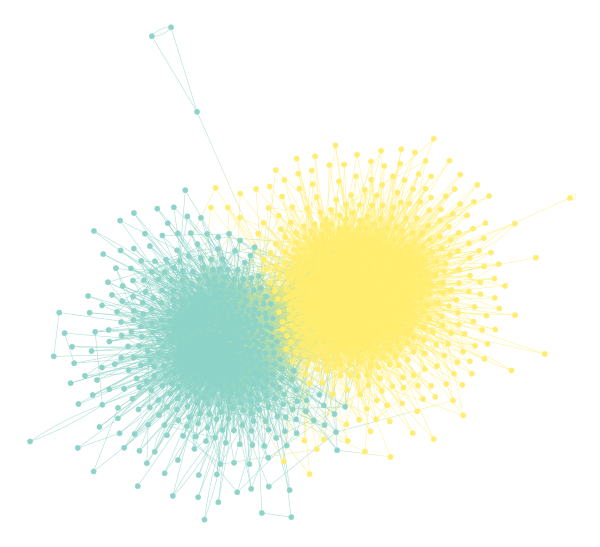
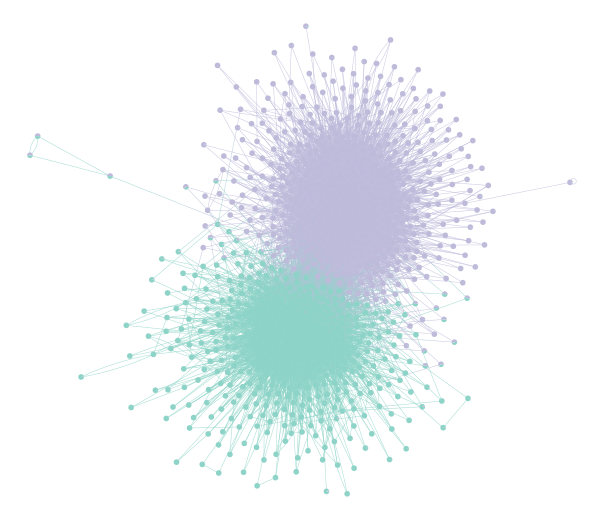
Change plotting function and generalise graph init

diff --git a/code/model/graph_mcmc.py b/code/model/graph_mcmc.py
@@ -15,7 +15,19 @@ output_dir = os.path.join(curr_dir, "..", "output")
 
 class Graph_MCMC:
 
-    def __init__(self, edges):
+    def __init__(self):
+        """Initialises empty graph"""
+        self.G = GT_Graph(directed=False)
+        
+        # initialise empty state
+        self.state = None
+        self.vertex_block_counts = None
+        self.B_max = None
+        self.relabelled_vertices = None
+
+
+    def read_from_edges(self, edges):
+        """Initialises graph based on edges"""
         origin_vertices = set([edge[0] for edge in edges])
         destin_vertices = set([edge[1] for edge in edges])
 
@@ -25,20 +37,13 @@ class Graph_MCMC:
         N = len(vertex_set)
         M = len(edges)
 
-        self.G = GT_Graph(directed=False)
-        self.G.add_edge_list(edges)
-        
-        # initialise empty state
-        self.state = None
-        self.vertex_block_counts = None
-        self.B_max = None
+        self.relabelled_vertices = self.G.add_edge_list(edges, hashed=True)
 
         print("Initialised graph with N={} nodes and M={} edges".format(N, M))
 
     
     def read_from_file(self, filename):
         filename = get_misc_path(filename)
-        self.G = GT_Graph(directed=False)
         self.G.load(filename)
 
 
@@ -56,7 +61,11 @@ class Graph_MCMC:
 
 
     def get_vertex_list(self):
-        return self.G.get_vertices()
+        """Returns external view of vertices"""
+        if self.relabelled_vertices is not None:
+            return self.relabelled_vertices.get_array()
+        else:
+            return self.G.get_vertices()
 
 
     def add_property(self, name, value_type, value_sequence):
@@ -78,7 +87,7 @@ class Graph_MCMC:
         return self.state.get_blocks()
 
     
-    def mcmc(self, num_iter, verbose=False):
+    def mcmc(self, num_iter, verbose=True):
         """
         Performs mcmc sampling of posterior on blocks
         returns: B_max - the highest number of blocks across samples
@@ -88,7 +97,14 @@ class Graph_MCMC:
         def collect_partitions(s):
             bs.append(s.b.a.copy())
 
-        mcmc_equilibrate(self.state, force_niter=num_iter, callback=collect_partitions, verbose=verbose)
+        for i in range(0, num_iter):
+                dS, nattempts, nmoves = self.state.mcmc_sweep(niter=1, d=0.00)
+                collect_partitions(self.state)
+                if verbose and i % 10 == 0:
+                    print("i: {}, dS: {}, nattempts: {}, nmoves: {}".format(i, dS, nattempts, nmoves))
+
+        # mcmc_equilibrate(self.state, force_niter=num_iter, callback=collect_partitions, mcmc_args={"d": 0.00}, verbose=verbose)
+        # BUG: parameter not passed through correctly
 
         # Disambiguate partitions and obtain marginals
         pmode = PartitionModeState(bs, converge=True)

diff --git a/code/inference/softmax.py b/code/inference/softmax.py
@@ -261,7 +261,7 @@ class SoftmaxNeuralNet:
         plt.show()
 
 
-    def plot_sampled_weights(self, feature_names):
+    def plot_sampled_weights(self, feature_names, std_dev_multiplier=1):
         W_history = self.weight_history["W1"]
         b_history = self.bias_history["b1"]
 
@@ -274,6 +274,7 @@ class SoftmaxNeuralNet:
         feature_names.append("bias")
 
         width = 0.4 / (D + 1)
+        midpoint = D / 2.0
 
         for d in range(0, D + 1):
             mean = np.zeros(B)
@@ -294,17 +295,21 @@ class SoftmaxNeuralNet:
 
             std_dev = np.sqrt(square - mean ** 2)
 
-            height = 2 * std_dev
+            height = 2 * std_dev * std_dev_multiplier
             bottom = mean - std_dev
 
-            x = np.array(range(0, B)) + (width * d)
+            x = np.arange(0, B, 1) + (width * (d - midpoint))
             plt.bar(x=x, height=height, bottom=bottom, width=width, label=feature_names[d])
+
+        block_centres = np.arange(0, B, 1)
+        block_names = [str(num) for num in range(0, B)]
         
         plt.title("Sampled softmax weightings")
         plt.xlabel("Class label")
-        plt.ylabel("Weight mean $\\pm \\sigma$")
+        plt.ylabel("Weight mean $\\pm {}\\sigma$".format(std_dev_multiplier))
         plt.grid()
         plt.legend()
+        plt.xticks(ticks=block_centres, labels=block_names)
         plt.show()
 
 

diff --git a/final-report/final-report.tex b/final-report/final-report.tex
@@ -381,6 +381,18 @@ Lastly, the analysis must of course be expanded to more datasets to benchmark ef
 
 For our inference goals we wish to sample block memberships $b$ according to the posterior $p(b | \Gcal)$. Peixoto \cite{Peixoto-MCMC} proposes a Monte-Carlo method for generating these samples. We simply
 
+At each iteration of the Markov chain we can use the most recent block assignments to train the classifier, mapping from vertex features to detected membership. The classifier has parameters $\theta$. We wish to apply Bayesian techniques such that we retain a measurement of the uncertainty in the classification. We propose to use Stochastic Gradient Langevin Dynamics (SGLD) as described by Nemeth and Fearnhead \cite{Nemeth-SGMCMC}. This allows us to draw samples from an arbitrary distribution $\pi$ on $\theta$. We can write $\pi$ in the following form.
+%
+\begin{equation}
+	\pi(\theta) \propto \exp \left( - U(\theta) \right)
+\end{equation}
+
+We wish to draw samples from, the posterior.
+%
+\begin{equation}
+	p(\theta | b) = \frac{p(\theta) p(b | \theta)}{p(b)}
+\end{equation}
+
 We can generate these samples and then use them to approximate the true posterior:
 %
 \begin{equation}

diff --git a/code/social.py b/code/social.py
@@ -3,6 +3,7 @@ from typing import List
 from hypothesis.test_statistics import two_samples_mean_ll_ratio, students_z_test
 from model.graph import Graph
 from model.graph_mcmc import Graph_MCMC
+import numpy as np
 
 
 def standard():
@@ -26,11 +27,13 @@ def standard():
 
     
 def mcmc():
-    ego_id = 0 # 0 or 107
-    fb = FacebookGraph(ego_id)
+    ego_id = 107 # 0 or 107
+    fb = FacebookGraph(str(ego_id))
     int_edges = [ (int(edge[0]), int(edge[1])) for edge in fb.edges]
+    int_edges = np.array(int_edges)
 
-    graph = Graph_MCMC(int_edges)
+    graph = Graph_MCMC()
+    graph.read_from_edges(int_edges)
     vertices = graph.get_vertex_list()
     
     selected_feat_ids, selected_feat_names = fb.get_feat_ids_and_names(keywords=["gender", "language", "hometown"])

diff --git a/code/blogs.py b/code/blogs.py
@@ -9,9 +9,10 @@ def run():
     graph.remove_property("label")
     graph.remove_property("source")
     graph.partition(B_min=1, B_max=2)
-    #graph.draw("polblogs.png")
-    graph.mcmc(100)
-    classifier = graph.sample_classifier_marginals(1000, verbose=True)
+    graph.mcmc(100, verbose=True)
+
+    graph.draw("polblogs.png")
+    classifier = graph.sample_classifier_marginals(10000, step_scaling=0.01, verbose=True)
 
     classifier.sgld_sample_thinning()
     classifier.plot_sampled_weights(["Right-Wingness"])
